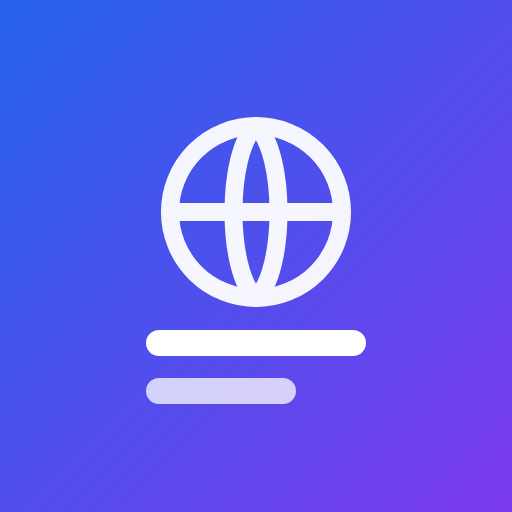
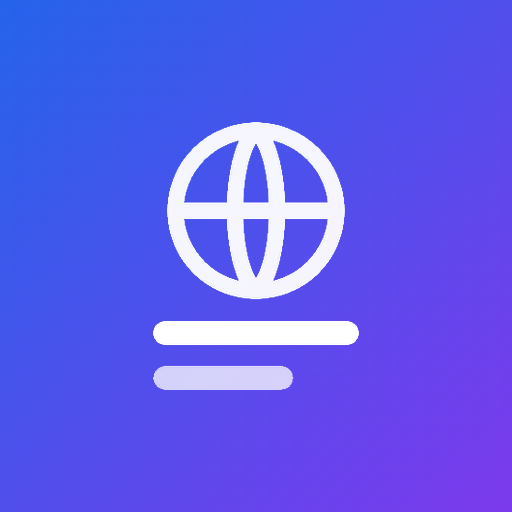
fix(assets): maskable 图标按规范重建（内容入中心 80% 安全圆）+ 新增防回退门禁
【缺陷】icons/icon-maskable-512.png 与 icons/icon-512.png **字节完全相同**
（SHA256 均 6A4E066AB045336D / 91,598 B）。maskable 的语义是"平台只保证中心区域可见，
四周允许被自适应遮罩裁切"，字节相同即意味着内容贴着边缘 —— 安卓圆形/水滴形遮罩会把地球切掉。

【修法（_fte-review-2/P1/_probe/build-maskable.py，可复跑）】
  ① 取"内容"（地球 + 两条杠）掩膜与包围盒 (146,117)-(366,404) = 220x287；
  ② 背景用原图左右边缘逐行线性插值重建（内容居中不触边，边缘即纯背景），保证满幅且无接缝；
  ③ 内容等比缩放居中贴回：内容最远像素距中心 163.4 px，**安全半径 204.8 px（=0.4x512），余量 41.4 px**；
  ④ 自检：背景 alpha 极值 (255,255) 满幅不透明；断言内容包围圆 ≤ 安全圆。
  结果：91,598 B → 40,808 B，SHA256 4394EC922AD48DD9（不再与 any 版相同）。
  预览（左 原 512 / 中 新 maskable + 红圈安全区 / 右 模拟圆形遮罩裁切）：
  _fte-review-2/P1/_probe/maskable-preview.png

【防回退门禁（tools/test-assets.js）】新增断言：maskable 与 any 版**不得字节相同**。
  零依赖（不解码图像，只比字节）。**变异测试已验证**：把 maskable 换回与 512 相同 → ❌ 且 exit 1；
  还原 → ✅ 且 exit 0。

【版本纪律】maskable 在 PRECACHE 内、字节已变：先升 CACHE fte-v99 → fte-v100，再同步
  tools/precache-baseline.json cache/minVersion = fte-v100（清单指纹不变）。

【验收】node tools/test-all.js = exit 0 · 全部门禁通过。

Changed region(s): [[0.2812, 0.2188, 0.7188, 0.8125]]

diff --git a/sw.js b/sw.js
@@ -10,8 +10,10 @@
      且 js/vendor/vosk.js（5.8 MB）会与离线外壳抢同一桶；iOS 配额吃紧时外壳可能被连带淘汰。
    更新流程：改动文件后把 CACHE 版本号 +1；新 SW 安装完成会通知页面弹「有新版本」。 */
 
-const CACHE = "fte-v99";   /* 图标修复：icons/icon-192.png 与 apple-touch-icon.png 原为退化的纯渐变图（无地球图案），已由 icon-512.png 重建为正确设计。
-                              PRECACHE 清单集合与指纹不变，升版本只为让老用户不吃到缓存里的空白主屏图标。
+const CACHE = "fte-v100";   /* 图标修复：icons/icon-192.png 与 apple-touch-icon.png 原为退化的纯渐变图（无地球图案），已由 icon-512.png 重建为正确设计；
+                              icons/icon-maskable-512.png 原与 icon-512.png 字节完全相同（内容贴边，会被安卓自适应遮罩裁掉），已按 maskable 规范
+                              把内容缩入中心 80% 安全圆（内容最远像素距中心 163.4 px < 安全半径 204.8 px）并保持满幅不透明背景。
+                              PRECACHE 清单集合与指纹不变，升版本只为让老用户不吃到缓存里的旧图标。
                               第一阶段（P0'/P1/P2/P3）+ 第二阶段（P4 口径 / P5 段位措辞 / P6 明日起点 / P7 单单一致字段）
                               + P8 字幕精听三件套 + P9 全英模式·本周新料·进度搬运 + P10 词级跟读（复读次数与间隔）
                               + 术语库（🔍 专业术语速查：新增 js/data-glossary.js · js/glossary.js，并改 index.html · js/app.js）

diff --git a/tools/test-assets.js b/tools/test-assets.js
@@ -176,6 +176,24 @@ PNG_EXPECT.forEach(function (e) {
     !!s && s.w === e[1] && s.h === e[2], s ? s.w + "x" + s.h : "缺失或非 PNG");
 });
 
+/* ▲ maskable 必须与 any 版**不是同一张图**（P1 图标修复）。
+   原状：icon-maskable-512.png 与 icon-512.png **字节完全相同** —— 而 maskable 的语义是
+   "内容会落在中心 80% 安全圆内、四周允许被自适应遮罩裁切"。字节相同就意味着内容贴着边缘，
+   安卓圆形/水滴形遮罩会把地球切掉（真机主屏图标就是这个后果）。
+   零依赖地守住这条：不解码图像，只比对两份字节——相同即违规。
+   安全区本身的数值校验由 `_fte-review-2/P1/_probe/build-maskable.py` 负责（生成时断言 ≤0.4R）。 */
+(function () {
+  const A = path.join(ROOT, "icons", "icon-512.png");
+  const B = path.join(ROOT, "icons", "icon-maskable-512.png");
+  if (!fs.existsSync(A) || !fs.existsSync(B)) {
+    check("maskable 与 any 版图标都存在", false, "缺少 icons/icon-512.png 或 icons/icon-maskable-512.png");
+    return;
+  }
+  const a = fs.readFileSync(A), b = fs.readFileSync(B);
+  check("maskable 图标必须与 any 版不同（相同 = 内容贴边，会被安卓自适应遮罩裁掉）",
+    a.length !== b.length || !a.equals(b), a.length + " B vs " + b.length + " B");
+})();
+
 const pngExemptPaths = PNG_PRECACHE_EXEMPT.map(function (w) { return w.path; });
 const pngExemptBad = PNG_PRECACHE_EXEMPT.filter(function (w) {
   return !w.path || String(w.reason || "").length < 10 ||
